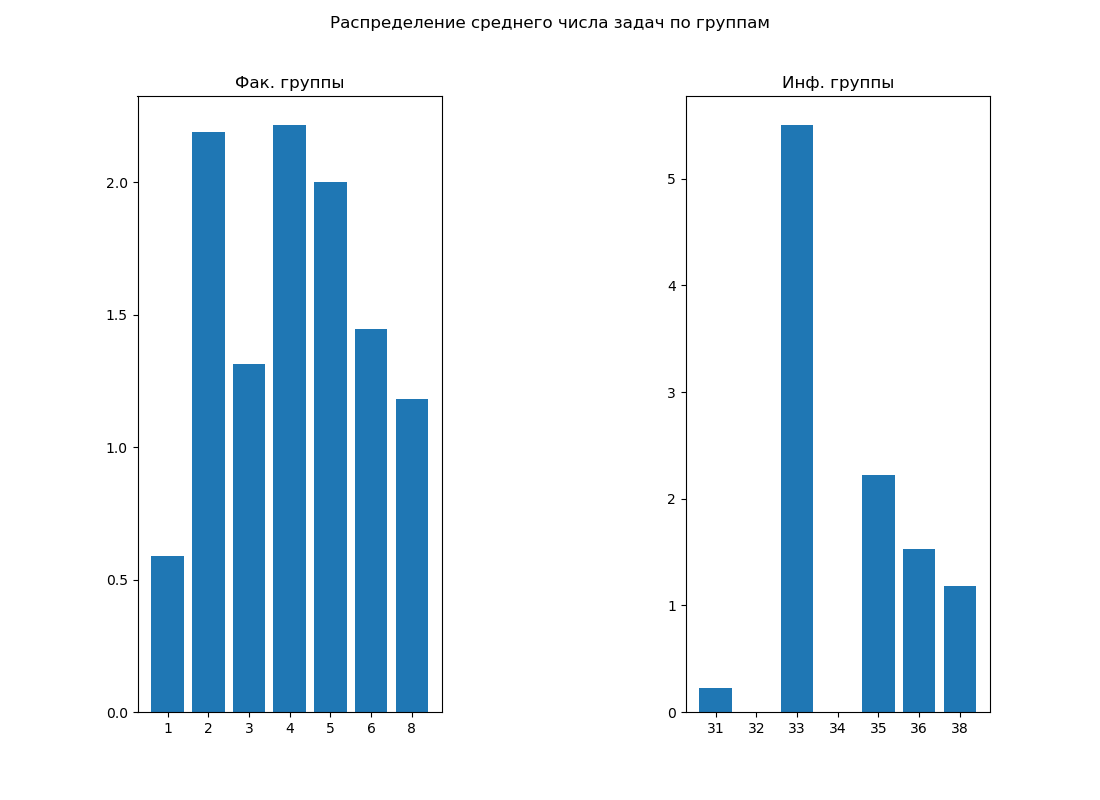
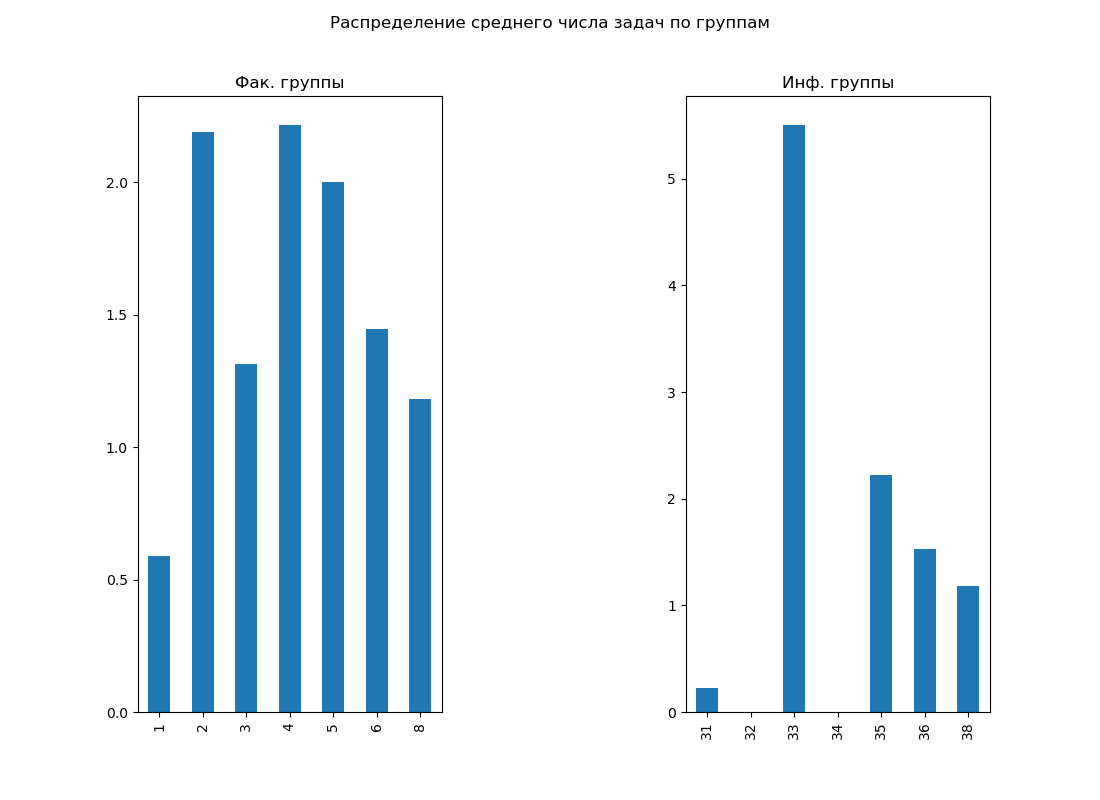
Major Pandas fix
Changed plotting tool

diff --git a/Pandas/third_part/third.py b/Pandas/third_part/third.py
@@ -1,31 +1,18 @@
 import pandas as pd
 import matplotlib.pyplot as plt
-import numpy as np
 
+names = ["Фак. группы", "Инф. группы"]
 df1 = pd.read_excel("students_info.xlsx")
-df1 = df1[df1['login'].notna()]
-
-names = [df1['group_faculty'].unique(), np.sort(df1['group_out'].unique())]
-
 df2 = pd.read_html("results_ejudge.html")[0].rename(columns={'User': 'login'})
 
 df = pd.merge(df2, df1, on='login')
 del df1, df2
 
-f_stat = df.groupby('group_faculty').mean()['Solved'].to_list()
-o_stat = df.groupby('group_out').mean()['Solved'].to_list()
-
-data = [f_stat, o_stat]
-
 fig, axes = plt.subplots(ncols=2, nrows=1, gridspec_kw={"wspace": 0.8}, figsize=[11, 8])
 
-for i in range(2):
-    axes[i].bar([i for i in range(7)], height=[data[i][k] for k in range(7)])
-    axes[i].set_xticks([i for i in range(7)])
-    axes[i].set_xticklabels((k for k in names[i]))
+df.groupby('group_faculty').mean()['Solved'].plot(kind='bar', ax=axes[0], title=names[0], xlabel='')
+df.groupby('group_out').mean()['Solved'].plot(kind='bar', ax=axes[1], title=names[1], xlabel='')
 
-axes[0].set_title("Фак. группы")
-axes[1].set_title("Инф. группы")
 fig.suptitle("Распределение среднего числа задач по группам")
 
 plt.savefig("output.png")
@@ -38,4 +25,4 @@ g_os = geniuses['group_out'].unique()
 print("Фак. группы: ", sorted(g_fs))
 print("Инф. группы: ", g_os)
 
-# df.to_excel("1.xlsx") # для ручной проверки результаттов с помощью экселя
+# df.to_excel("1.xlsx") # для ручной проверки результатов с помощью экселя

diff --git a/Pandas/second_part/second.py b/Pandas/second_part/second.py
@@ -1,29 +1,15 @@
 import pandas as pd
-import numpy as np
 import matplotlib.pyplot as plt
 
 df = pd.read_csv("flights.csv")
 
-names = np.sort(df['CARGO'].unique())
-
 fig, axes = plt.subplots(ncols=3, nrows=1, gridspec_kw={"wspace": 0.8}, figsize=[11, 8])
 
-data = [[], [], []]
+names = ['Flights amount', "Total price", "Total weight"]
 
-data[0] = df.groupby('CARGO').count()['Unnamed: 0'].to_list()
-data[1] = df.groupby('CARGO').sum()['PRICE'].to_list()
-data[2] = df.groupby('CARGO').sum()['WEIGHT'].to_list()
-
-del df
-
-for i in range(3):
-    axes[i].bar([0, 1, 2], height=[data[i][k] for k in range(3)])
-    axes[i].set_xticks([0, 1, 2])
-    axes[i].set_xticklabels((p for p in names))
-
-axes[0].set_title("Flights amount")
-axes[1].set_title("Total price")
-axes[2].set_title("Total weight")
+df.groupby('CARGO').count()['Unnamed: 0'].plot(kind='bar', ax=axes[0], title=names[0], xlabel='')
+df.groupby('CARGO').sum()['PRICE'].plot(kind='bar', ax=axes[1], title=names[1], xlabel='')
+df.groupby('CARGO').sum()['WEIGHT'].plot(kind='bar', ax=axes[2], title=names[2], xlabel='')
 
 plt.savefig("output.png")
 # plt.show()
